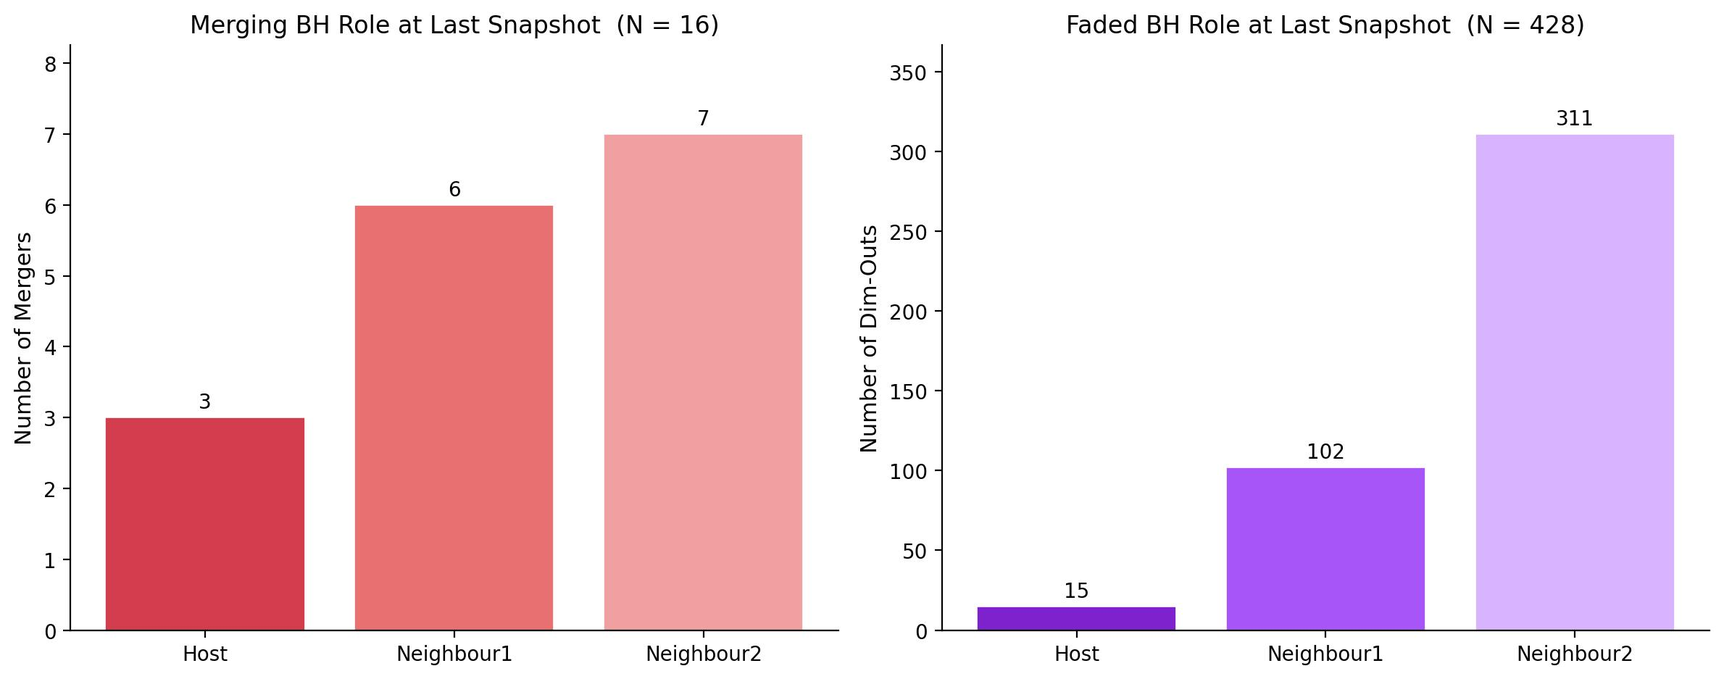
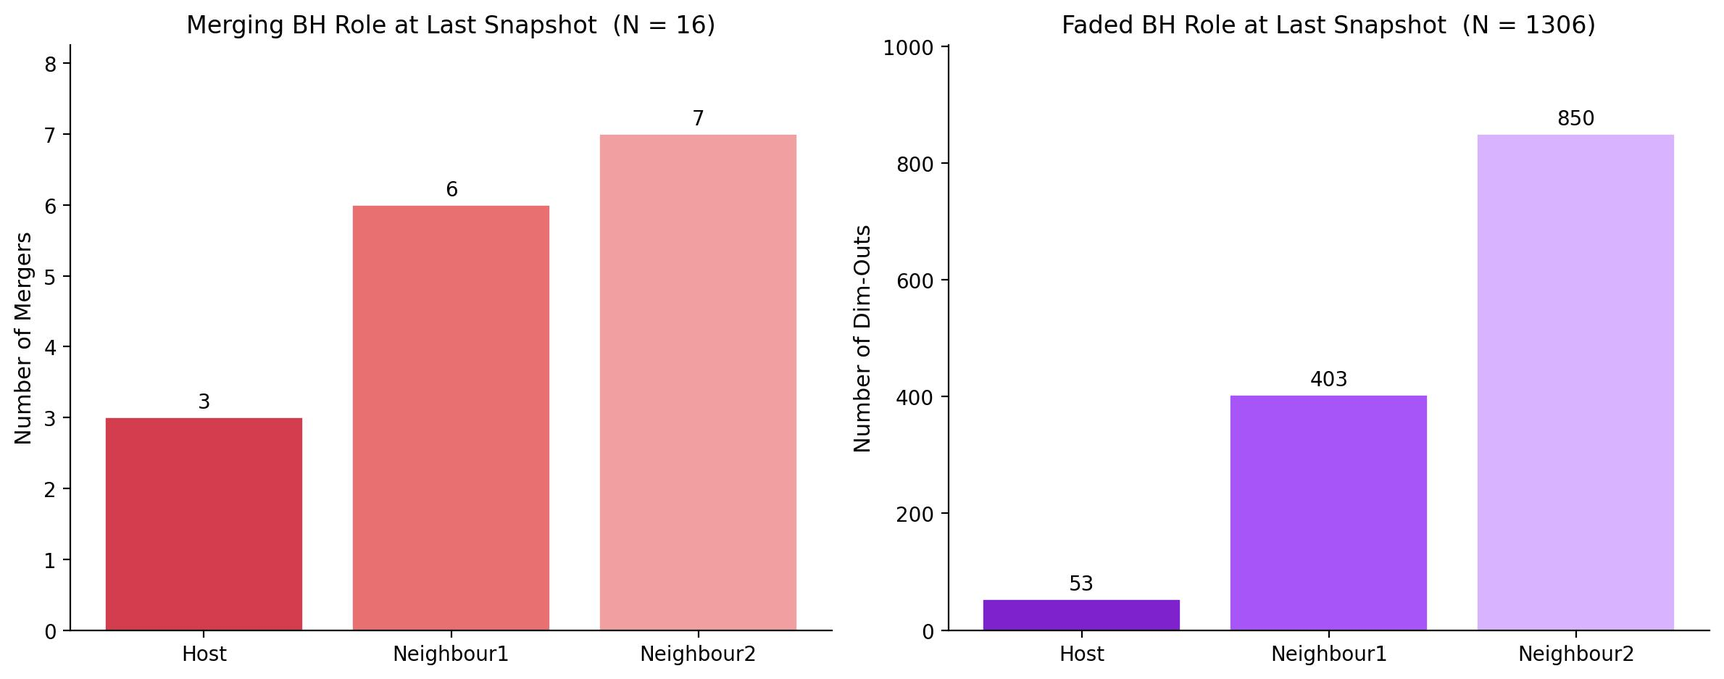
updates

diff --git a/main.tex b/main.tex
@@ -65,7 +65,7 @@ natbib=true
 \maketitle
 
 \begin{abstract}
-Hierarchical galaxy formation naturally predicts the existence of systems hosting multiple supermassive black holes (SMBHs), and when gas is available, such systems may manifest as multiple active galactic nuclei (AGN). While dual AGNs have been studied extensively in both observations and simulations, triple AGN systems remain relatively unexplored, despite their importance for further understanding things like SMBH dynamics and merger-driven accretion. Recent observational discoveries of nearby kpc-scale triple AGNs have highlighted the need for theoretical predictions that place these rare systems in a broader cosmological context. In this work, we investigate the properties of triple AGN systems in the Romulus25 cosmological hydrodynamical simulation. Romulus25 uniquely incorporates a physically motivated treatment of unresolved dynamical friction, enabling SMBHs to remain coupled to their host galaxies and to interact down to sub-kiloparsec scales. Building on previous analyses of dual AGNs in Romulus, we identify candidate triple AGN systems using AGN bolometric luminosity and spatial proximity criteria motivated by observations. We examine their redshift evolution, SMBH masses and luminosities, separations, host halos, lifetimes, and fates, test how the census depends on the luminosity threshold and search radius, and repeat the selection in projection with a cylinder of $30\,\mathrm{kpc}$ radius and $\pm 500\,\mathrm{km\,s^{-1}}$. Above $L_\mathrm{bol} = 10^{40}\,\mathrm{erg\,s^{-1}}$ we find 3,266 triple AGN system-snapshot instances from 1,397 unique systems between $z \approx 0.06$ and $z = 3$, with counts per snapshot rising by a factor of about three toward high redshift, driven mainly by the rising fraction of SMBHs that are accreting. Members typically lie $\sim 3\,\mathrm{kpc}$ apart, and the brightest member carries a median 88\% of the system luminosity. Most triple AGN episodes end because one member falls below the luminosity threshold while all three SMBHs remain together, and 21\% meet our Dim-Out criterion of a member that is still accreting above $10^{38}\,\mathrm{erg\,s^{-1}}$ while the other two remain a dual AGN; fewer than 1\% end in a confirmed SMBH merger and 3\% in the ejection of a member from the $30\,\mathrm{kpc}$ neighbourhood. In projection, 82\% of selected triples are genuine three-dimensional triples and 89\% of genuine triples are recovered. Narrowing the velocity window increases contamination, whereas reducing the aperture radius to $20\,\mathrm{kpc}$ improves both purity and completeness. Radiative transfer of five simulated analogues of the triple merger candidate UGC\,2369S shows that dust absorbs between 24\% and 90\% of their starlight. By providing a systematic census of triple AGNs in a cosmological simulation, this study aims to establish a theoretical baseline for interpreting current observations and to guide future searches for multi-AGN systems.
+Hierarchical galaxy formation naturally predicts the existence of systems hosting multiple supermassive black holes (SMBHs), and when gas is available, such systems may manifest as multiple active galactic nuclei (AGN). While dual AGNs have been studied extensively in both observations and simulations, triple AGN systems remain relatively unexplored, despite their importance for further understanding things like SMBH dynamics and merger-driven accretion. Recent observational discoveries of nearby kpc-scale triple AGNs have highlighted the need for theoretical predictions that place these rare systems in a broader cosmological context. In this work, we investigate the properties of triple AGN systems in the Romulus25 cosmological hydrodynamical simulation. Romulus25 uniquely incorporates a physically motivated treatment of unresolved dynamical friction, enabling SMBHs to remain coupled to their host galaxies and to interact down to sub-kiloparsec scales. Building on previous analyses of dual AGNs in Romulus, we identify candidate triple AGN systems using AGN bolometric luminosity and spatial proximity criteria motivated by observations. We examine their redshift evolution, SMBH masses and luminosities, separations, host halos, lifetimes, and fates, test how the census depends on the luminosity threshold and search radius, and repeat the selection in projection with a cylinder of $30\,\mathrm{kpc}$ radius and $\pm 500\,\mathrm{km\,s^{-1}}$. Above $L_\mathrm{bol} = 10^{40}\,\mathrm{erg\,s^{-1}}$ we find 3,266 triple AGN system-snapshot instances from 1,397 unique systems between $z \approx 0.06$ and $z = 3$, with counts per snapshot rising by a factor of about three toward high redshift, driven mainly by the rising fraction of SMBHs that are accreting. Members typically lie $\sim 3\,\mathrm{kpc}$ apart, and the brightest member carries a median 88\% of the system luminosity. Most triple AGN episodes (64\%) end in a Dim-Out, in which one member falls below the luminosity threshold but is still accreting above $10^{38}\,\mathrm{erg\,s^{-1}}$; fewer than 1\% end in a confirmed SMBH merger and 1\% in the ejection of a member from the $30\,\mathrm{kpc}$ neighbourhood. In projection, 82\% of selected triples are genuine three-dimensional triples and 89\% of genuine triples are recovered. Narrowing the velocity window increases contamination, whereas reducing the aperture radius to $20\,\mathrm{kpc}$ improves both purity and completeness. Radiative transfer of five simulated analogues of the triple merger candidate UGC\,2369S shows that dust absorbs between 24\% and 90\% of their starlight. By providing a systematic census of triple AGNs in a cosmological simulation, this study aims to establish a theoretical baseline for interpreting current observations and to guide future searches for multi-AGN systems.
 
 \end{abstract}
 \vspace{1em} 
@@ -142,7 +142,7 @@ In this paper, we present the first systematic census of triple AGN systems in t
 
 For each identified system we characterise the SMBH masses, bolometric luminosities, pairwise separations, host halo masses, and system lifetimes of all three members. We classify the Host (most massive), Neighbour~1 (N1), and Neighbour~2 (N2) by decreasing SMBH mass. We examine how these properties evolve with redshift and depend on the choice of luminosity threshold and separation cut.
 
-The key findings can be summarised as follows. Triple AGN systems are a natural and recurring product of hierarchical galaxy assembly in Romulus25, with their number density rising steadily from $z = 0$ to $z \approx 3$, mirroring the global rise in AGN activity. They are physically compact, with median pairwise separations of 2.9, 3.2, and 3.8\,kpc for the Host--N1, Host--N2, and N1--N2 pairs respectively, considerably more compact than the currently confirmed observational sample, implying a large population inaccessible to existing surveys. The SMBH mass distribution is asymmetric. The median Host is $\sim 3$ and $\sim 6$ times more massive than N1 and N2 respectively, a contrast that grows to one to two orders of magnitude in halos above $10^{12}\,M_\odot$, while N1 and N2 are drawn from a similar near-seed-mass population. This demonstrates that triple AGN formation does not require (and may in some cases \textit{precede}) significant growth of the secondary and tertiary SMBHs. The majority (61\%) of unique triple AGN systems are single-snapshot detections, reflecting the transient character of low-luminosity triple activity, while the multi-snapshot population has a median span of $1.44\,\mathrm{Gyr}$ from first to last detection and a long tail extending to $\sim 11\,\mathrm{Gyr}$, although these systems are typically detected as triples in only about a third of the snapshots they span. Most triple AGN episodes end when one member falls below the luminosity threshold while all three SMBHs remain within $30\,\mathrm{kpc}$, and a Dim-Out, in which a member falls below the threshold but is still accreting above $10^{38}\,\mathrm{erg\,s^{-1}}$ while the other two remain a dual AGN, ends 21\% of episodes, a confirmed merger fewer than 1\%, and the ejection of a member only 3\%. In most systems a single nucleus dominates the light, carrying a median 88\% of the total. Selection in projection recovers 89\% of genuine triples with a purity of 82\%, and a $20\,\mathrm{kpc}$ aperture improves on both.
+The key findings can be summarised as follows. Triple AGN systems are a natural and recurring product of hierarchical galaxy assembly in Romulus25, with their number density rising steadily from $z = 0$ to $z \approx 3$, mirroring the global rise in AGN activity. They are physically compact, with median pairwise separations of 2.9, 3.2, and 3.8\,kpc for the Host--N1, Host--N2, and N1--N2 pairs respectively, considerably more compact than the currently confirmed observational sample, implying a large population inaccessible to existing surveys. The SMBH mass distribution is asymmetric. The median Host is $\sim 3$ and $\sim 6$ times more massive than N1 and N2 respectively, a contrast that grows to one to two orders of magnitude in halos above $10^{12}\,M_\odot$, while N1 and N2 are drawn from a similar near-seed-mass population. This demonstrates that triple AGN formation does not require (and may in some cases \textit{precede}) significant growth of the secondary and tertiary SMBHs. The majority (61\%) of unique triple AGN systems are single-snapshot detections, reflecting the transient character of low-luminosity triple activity, while the multi-snapshot population has a median span of $1.44\,\mathrm{Gyr}$ from first to last detection and a long tail extending to $\sim 11\,\mathrm{Gyr}$, although these systems are typically detected as triples in only about a third of the snapshots they span. Most triple AGN episodes (64\%) end in a Dim-Out, in which a member falls below the luminosity threshold but is still accreting above $10^{38}\,\mathrm{erg\,s^{-1}}$, while a confirmed merger ends fewer than 1\% and the ejection of a member only 1\%. In most systems a single nucleus dominates the light, carrying a median 88\% of the total. Selection in projection recovers 89\% of genuine triples with a purity of 82\%, and a $20\,\mathrm{kpc}$ aperture improves on both.
 
 The paper is organized as follows. Section~\ref{sec:methods} describes the Romulus25 simulation, our AGN selection criteria, the triple AGN identification algorithm, and the methodology used to compare the simulated population with observations. Section~\ref{sec:results} presents all results, including the redshift evolution of the triple AGN population (Sections~\ref{subsec:agn_population}--\ref{subsec:frequency}), pairwise separation distributions (Sections~\ref{subsec:separations}--\ref{subsec:sep_halo}), SMBH mass and luminosity properties (Sections~\ref{subsec:bhmass_halo}--\ref{subsec:ratios}), system lifetimes (Section~\ref{subsec:lifetimes}), a case study of one of the longest-lived systems in the simulation (Section~\ref{subsec:case_study}), system fates (Section~\ref{subsec:fates}), the luminosity-independent parent population (Section~\ref{subsec:parent_population}), the dominance of the brightest member (Section~\ref{subsec:brightest_share}), the selection of triple AGN in projection (Sections~\ref{subsec:projected_vs_physical}--\ref{subsec:selection_opt}), and dust attenuation in simulated analogues of UGC\,2369S (Section~\ref{subsec:dust}). Throughout, we adopt the Romulus25 cosmology: $\Omega_m = 0.309$, $\Omega_\Lambda = 0.691$, $H_0 = 67.8\,\mathrm{km\,s^{-1}\,Mpc^{-1}}$. All separations are quoted in physical kiloparsecs and all masses in solar units $M_\odot$.
 
@@ -653,35 +653,35 @@ These gas column density maps represent individual frames from longer time-serie
 \begin{figure}[H]
     \centering
     \includegraphics[width=\columnwidth]{plot_1.jpeg}
-    \caption{Terminal fate classification of all 2,047 triple AGN episodes, counted per episode rather than per system, since 383 of the 1,397 systems re-form after a gap and contribute more than one episode. An episode is a contiguous run of snapshots over which the same three SMBHs satisfy the triple AGN selection criteria, with gaps of two snapshots or fewer bridged. Fates are assigned at the first usable snapshot after the episode, in the order Ongoing (the episode reaches the final catalogued snapshot), Merger (a member has vanished, having been within $0.7\,\mathrm{kpc}$ of another member), Dim-Out (two members remain a dual AGN while the third has dropped below the threshold but is still accreting, $10^{38} \leq L_\mathrm{bol} < 10^{40}\,\mathrm{erg\,s^{-1}}$), Passer-By (the same two SMBHs are a dual AGN immediately before and after the episode), Ejection (all three SMBHs still exist but a member has left the $30\,\mathrm{kpc}$ configuration), and Undefined (all remaining episodes). Undefined accounts for 72.5\% of episodes, Dim-Out for 20.9\%, Ejection for 2.7\%, Passer-By for 2.1\%, Ongoing for 0.9\%, and Merger for 0.8\%.}
+    \caption{Terminal fate classification of all 2,047 triple AGN episodes, counted per episode rather than per system, since 383 of the 1,397 systems re-form after a gap and contribute more than one episode. An episode is a contiguous run of snapshots over which the same three SMBHs satisfy the triple AGN selection criteria, with gaps of two snapshots or fewer bridged. Fates are assigned at the first usable snapshot after the episode, in the order Ongoing (the episode reaches the final catalogued snapshot), Merger (a member has vanished, having been within $0.7\,\mathrm{kpc}$ of another member), Dim-Out (a member has dropped below the threshold but is still accreting, $10^{38} \leq L_\mathrm{bol} < 10^{40}\,\mathrm{erg\,s^{-1}}$), Passer-By (the same two SMBHs are a dual AGN immediately before and after the episode), Ejection (all three SMBHs still exist but a member has left the $30\,\mathrm{kpc}$ configuration), and Undefined (all remaining episodes). Dim-Out accounts for 63.8\% of episodes, Undefined for 31.3\%, Passer-By for 2.1\%, Ejection for 1.0\%, Ongoing for 0.9\%, and Merger for 0.8\%.}
     \label{fig:fates}
 \end{figure}
 
 \begin{figure*}
     \centering
     \includegraphics[width=\textwidth]{plot_rs.jpeg}
-    \caption{Redshift evolution of triple AGN episode fates. \textit{Left:} Number of episodes in each of ten redshift bins spanning $z = 0$ to $z = 3$, stacked and coloured by terminal fate as classified in Section~\ref{subsec:fates}. \textit{Right:} The same data as the fraction of episodes in each bin. Undefined dominates at all redshifts (62--78\%), followed by Dim-Out (16--32\%). Neither, nor Ejection (1--4\%), Passer-By (0.5--6\%), or Merger (0--3\%), shows a clear redshift trend. The rise in the Ongoing fraction in the lowest-redshift bin is an artefact of the catalogue ending at $z \approx 0.06$.}
+    \caption{Redshift evolution of triple AGN episode fates. \textit{Left:} Number of episodes in each of ten redshift bins spanning $z = 0$ to $z = 3$, stacked and coloured by terminal fate as classified in Section~\ref{subsec:fates}. \textit{Right:} The same data as the fraction of episodes in each bin. Dim-Out dominates at all redshifts (57--70\%), followed by Undefined (23--40\%), which is somewhat more common at high redshift. Passer-By (0.5--6\%), Ejection (0--3\%), and Merger (0--3\%) show no clear redshift trend. The rise in the Ongoing fraction in the lowest-redshift bin is an artefact of the catalogue ending at $z \approx 0.06$.}
     \label{fig:fates_z}
 \end{figure*}
 
 The lifetime analysis presented in Section~\ref{subsec:lifetimes} characterised how long triple AGN systems persist, but did not address how they cease to satisfy the triple AGN criteria. To close this gap, we classify the fate of every triple AGN episode in the census, an episode being defined as a contiguous run of consecutive snapshots over which a given system satisfies the selection criteria of Section~\ref{subsec:identification}. Gaps of two or fewer consecutive snapshots between appearances of the same system are bridged into a single episode, so that a member briefly falling below the $10^{40}\,\mathrm{erg\,s^{-1}}$ threshold for one or two snapshots does not end the episode. Only gaps of three or more consecutive snapshots are treated as genuine dissolutions, generating a new, distinct episode upon the system's reappearance.
 
-The fates are counted per episode, not per system, so their total (2,047) exceeds the number of unique triple AGN systems identified in Section~\ref{subsec:lifetimes} (1,397). A system, that is, a given set of three SMBHs, can cease to satisfy the selection criteria for three or more consecutive snapshots and later satisfy them again, and each such return begins a new episode with its own terminal fate. Of the 1,397 systems, 1,014 (73\%) form a triple AGN in only a single episode, while the remaining 383 (27\%) re-form between one and seven times, after gaps of 3 to 53 snapshots (median 6), and contribute 1,033 episodes between them. These 650 re-entries account for the difference between the two totals. Because the SMBHs in a re-entering system must still exist and return to within $30\,\mathrm{kpc}$ of one another, the earlier episodes of such systems end almost exclusively in Undefined (431) or Dim-Out (206), with only 9 Passer-By and 4 Ejection episodes, and never in a Merger. Restricting the classification to the final episode of each system gives 1,054 Undefined, 222 Dim-Out, 51 Ejection, 35 Passer-By, 19 Ongoing, and 16 Merger fates among the 1,397 systems.
+The fates are counted per episode, not per system, so their total (2,047) exceeds the number of unique triple AGN systems identified in Section~\ref{subsec:lifetimes} (1,397). A system, that is, a given set of three SMBHs, can cease to satisfy the selection criteria for three or more consecutive snapshots and later satisfy them again, and each such return begins a new episode with its own terminal fate. Of the 1,397 systems, 1,014 (73\%) form a triple AGN in only a single episode, while the remaining 383 (27\%) re-form between one and seven times, after gaps of 3 to 53 snapshots (median 6), and contribute 1,033 episodes between them. These 650 re-entries account for the difference between the two totals. Because the SMBHs in a re-entering system must still exist and return to within $30\,\mathrm{kpc}$ of one another, the earlier episodes of such systems end almost exclusively in Dim-Out (459) or Undefined (179), with only 9 Passer-By and 3 Ejection episodes, and never in a Merger. Restricting the classification to the final episode of each system gives 847 Dim-Out, 462 Undefined, 35 Passer-By, 19 Ongoing, 18 Ejection, and 16 Merger fates among the 1,397 systems.
 
 For each episode we determine its terminal fate at the first usable snapshot following its final detection, applying the following classification in priority order. Luminosities are taken from an AGN catalogue with a floor of $10^{38}\,\mathrm{erg\,s^{-1}}$, or computed from the accretion rate in the \textsc{Tangos} database with the same floor where that catalogue is unavailable. Three-dimensional separations are taken from the projected master catalogues of Section~\ref{subsec:projected_selection}, pooled over the three viewing axes.
 \begin{enumerate}
     \item \textbf{Ongoing:} the episode is still active at the final catalogued snapshot, so that its fate lies beyond the redshift range probed by this study.
     \item \textbf{Merger:} one of the three SMBHs is absent from the black hole catalogue at the following snapshot, and at the final snapshot of the episode it lay within $0.7\,\mathrm{kpc}$ of another member, the separation below which Romulus25 merges SMBHs (Section~\ref{subsubsec:dynamics}). In Romulus25 a merged SMBH disappears permanently, and none of the vanished SMBHs reappears in any later snapshot.
-    \item \textbf{Dim-Out:} a member drops below the detection threshold while the other two remain an active pair. Two conditions must both hold at the following snapshot. First, two of the three SMBHs form a dual AGN in the dual catalogue of Section~\ref{subsec:derived}, that is, they are linked within $30\,\mathrm{kpc}$ with no further AGN attached. Second, the third SMBH is below the triple threshold but still accreting, with $10^{38} \leq L_\mathrm{bol} < 10^{40}\,\mathrm{erg\,s^{-1}}$, so that it remains in the AGN catalogue with a floor of $10^{38}\,\mathrm{erg\,s^{-1}}$.
+    \item \textbf{Dim-Out:} a member has dropped below the detection threshold but is still accreting, with $10^{38} \leq L_\mathrm{bol} < 10^{40}\,\mathrm{erg\,s^{-1}}$ at the following snapshot, so that it remains in the AGN catalogue with a floor of $10^{38}\,\mathrm{erg\,s^{-1}}$. No condition is placed on the other two members: they need not remain a dual AGN, since the member that dimmed may have been the one linking them within $30\,\mathrm{kpc}$.
     \item \textbf{Passer-By:} the same two SMBHs were an active dual AGN in the snapshot immediately preceding the episode and remain an active dual in the snapshot immediately following it, so that the dual outlasted the triple.
     \item \textbf{Ejection:} all three SMBHs still exist at the following snapshot, but a member has left the system: no member lies within $30\,\mathrm{kpc}$ of both others, so the configuration required by the triple selection is broken.
     \item \textbf{Undefined:} all remaining episodes.
 \end{enumerate}
 A residual Unknown category is reserved for cases in which the black hole catalogue for the following snapshot is unavailable; no episodes in our census fell into this category.
 
-Figure~\ref{fig:fates} shows the resulting distribution of terminal fates. Undefined is the most common, ending 1,485 of the 2,047 episodes (72.5\%), followed by Dim-Out, with 428 (20.9\%), occurring at least once in 331 of the 1,397 unique systems (24\%). Ejection and Passer-By account for 55 (2.7\%) and 44 (2.1\%) episodes, and the rarest fates are Ongoing, with 19 (0.9\%), and Merger, with 16 (0.8\%). In 51 of the 55 Ejections, two members remain within $30\,\mathrm{kpc}$ of each other while the third has left, and in the remaining 4 all three members have separated. In Dim-Out episodes the dimmed member has a median luminosity of $1.8 \times 10^{39}\,\mathrm{erg\,s^{-1}}$ at the following snapshot, roughly a factor of five below the threshold, and it is almost always one of the companions (Figure~\ref{fig:merger_roles}): Neighbour~2 in 311 episodes (73\%), Neighbour~1 in 102 (24\%), and the Host in only 15 (4\%).
+Figure~\ref{fig:fates} shows the resulting distribution of terminal fates. Dim-Out is by far the most common, ending 1,306 of the 2,047 episodes (63.8\%) and occurring at least once in 954 of the 1,397 unique systems (68\%). It is followed by Undefined, with 641 episodes (31.3\%). Passer-By and Ejection account for 44 (2.1\%) and 21 (1.0\%) episodes, and the rarest fates are Ongoing, with 19 (0.9\%), and Merger, with 16 (0.8\%). In Dim-Out episodes the dimmed member has a median luminosity of $1.3 \times 10^{39}\,\mathrm{erg\,s^{-1}}$ at the following snapshot, roughly an order of magnitude below the threshold, and in 892 of them it is the only member below the threshold. It is usually one of the companions (Figure~\ref{fig:merger_roles}): Neighbour~2 in 850 episodes (65\%), Neighbour~1 in 403 (31\%), and the Host in 53 (4\%). Because the Dim-Out test precedes the Ejection test, 36 Dim-Out episodes in which the members also no longer satisfy the $30\,\mathrm{kpc}$ geometry are counted as Dim-Out; in 8 of these the dimmed member is also the one that has moved away, in 26 a different member has, and in 2 all three have separated. Of the 21 Ejections, 19 leave two members within $30\,\mathrm{kpc}$ of each other while the third has left, and in 2 all three members have separated.
 
-Table~\ref{tab:end_states} divides the Undefined class according to the state of the three SMBHs at the following snapshot. In 985 of the 1,485 Undefined episodes (66\%), the three SMBHs are still together but at least one member has fallen below the threshold without meeting the Dim-Out criteria. In 261 of these, the member has dropped below $10^{38}\,\mathrm{erg\,s^{-1}}$; in the other 724, the remaining two members do not form a dual AGN on their own, because a further AGN is attached to them (440 episodes) or because a second member has also fallen below the threshold (284). In a further 384 episodes (26\%), all three members remain above the threshold and in the same configuration, but an additional AGN lies within $30\,\mathrm{kpc}$ of at least one member, so that the system no longer has exactly two AGN neighbours. In 110 episodes (7\%), one member has vanished from the black hole catalogue, but it lay more than $0.7\,\mathrm{kpc}$ from the other members at the final snapshot of the episode. These SMBHs have merged with some black hole between snapshots, but the merger with another member of the triple cannot be confirmed. At the final snapshot they lie a median of $1.4\,\mathrm{kpc}$ from the nearest member, with 76\% within $2\,\mathrm{kpc}$, so many are likely to have merged with a member of the triple within the $\sim 143\,\mathrm{Myr}$ before the following snapshot. The six remaining episodes cannot be measured. Over all episodes, a member falls below the threshold while the SMBHs remain together in 1,444 cases (70.5\%), of which 426 are Dim-Outs, 985 Undefined, and 33 Passer-By episodes, whereas the departure of a member accounts for only 65 (3.2\%), the 55 Ejections, 8 Passer-By episodes, and 2 Dim-Outs in which the dimmed member had also moved beyond $30\,\mathrm{kpc}$. The state is measured only at the following snapshot, a median of 143\,Myr later, so excursions between snapshots are not captured.
+Table~\ref{tab:end_states} divides the Undefined class according to the state of the three SMBHs at the following snapshot. In 384 of the 641 Undefined episodes (60\%), all three members remain above the threshold and in the same configuration, but an additional AGN lies within $30\,\mathrm{kpc}$ of at least one member, so that the system no longer has exactly two AGN neighbours. In 141 episodes (22\%), the three SMBHs are still together but the member that fell below the threshold has dropped below $10^{38}\,\mathrm{erg\,s^{-1}}$, out of the AGN catalogue, so that the episode does not meet the Dim-Out criteria. In 110 episodes (17\%), one member has vanished from the black hole catalogue, but it lay more than $0.7\,\mathrm{kpc}$ from the other members at the final snapshot of the episode. These SMBHs have merged with some black hole between snapshots, but the merger with another member of the triple cannot be confirmed. At the final snapshot they lie a median of $1.4\,\mathrm{kpc}$ from the nearest member, with 76\% within $2\,\mathrm{kpc}$, so many are likely to have merged with a member of the triple within the $\sim 143\,\mathrm{Myr}$ before the following snapshot. The six remaining episodes cannot be measured. Over all episodes, a member falls below the threshold while the SMBHs remain together in 1,444 cases (70.5\%), of which 1,270 are Dim-Outs, 141 Undefined, and 33 Passer-By episodes, whereas the departure of a member accounts for only 65 (3.2\%), the 21 Ejections, 36 Dim-Outs, and 8 Passer-By episodes. The state is measured only at the following snapshot, a median of 143\,Myr later, so excursions between snapshots are not captured.
 
 \begin{table}
     \centering
@@ -691,14 +691,14 @@ Table~\ref{tab:end_states} divides the Undefined class according to the state of
         \hline
         Fate & $N$ & \% \\
         \hline
-        Undefined & 1,485 & 72.5 \\
-        \quad member below threshold, not Dim-Out & 985 & 48.1 \\
+        Dim-Out & 1,306 & 63.8 \\
+        Undefined & 641 & 31.3 \\
         \quad further AGN within $30\,\mathrm{kpc}$ & 384 & 18.8 \\
+        \quad member below $10^{38}\,\mathrm{erg\,s^{-1}}$ & 141 & 6.9 \\
         \quad member vanished beyond $0.7\,\mathrm{kpc}$ & 110 & 5.4 \\
         \quad not measurable & 6 & 0.3 \\
-        Dim-Out & 428 & 20.9 \\
-        Ejection & 55 & 2.7 \\
         Passer-By & 44 & 2.1 \\
+        Ejection & 21 & 1.0 \\
         Ongoing & 19 & 0.9 \\
         Merger & 16 & 0.8 \\
         \hline
@@ -707,12 +707,12 @@ Table~\ref{tab:end_states} divides the Undefined class according to the state of
 
 Confirmed SMBH--SMBH mergers end only 0.8\% of episodes, and even counting all 113 SMBHs that vanished while lying further from the other members (110 Undefined and 3 Passer-By episodes), mergers would end 6.3\% of episodes. These fractions are not directly comparable to the $\sim 70\%$ of SMBH pairs in dual systems found to eventually merge by \citet{Saeedzadeh2024}. Our figures count mergers at the snapshot immediately following an episode at a threshold of $10^{40}\,\mathrm{erg\,s^{-1}}$, whereas theirs follows pairs at $10^{43}\,\mathrm{erg\,s^{-1}}$ through to coalescence. Since most episodes end with all three SMBHs still in close proximity, the low merger fraction indicates that episodes usually end before any coalescence, and following the SMBHs beyond the end of each episode would be required to determine how many eventually merge. We also note that Romulus25 merges SMBHs at separations of $0.7\,\mathrm{kpc}$, so these simulations cannot address the three-body hardening of bound binaries at parsec scales discussed in Section~\ref{subsec:triple_theory}. Among the 16 Merger episodes, the SMBH that disappears is the Host in 3, Neighbour~1 in 6, and Neighbour~2 in 7 (Figure~\ref{fig:merger_roles}, left), too few to establish which member is preferentially absorbed.
 
-Figure~\ref{fig:fates_z} examines whether the terminal fate of a triple AGN episode depends on redshift. The left panel shows the number of episodes of each fate in ten redshift bins spanning $z = 0$ to $z = 3$, while the right panel shows the same information as the fraction of episodes within each bin. Undefined is the dominant fate at every redshift, accounting for 62--78\% of episodes, followed by Dim-Out at 16--32\%. The Ejection fraction lies between 1\% and 4\%, the Passer-By fraction between 0.5\% and 6\%, and the Merger fraction below 3\% in every bin, none with a clear redshift trend. The Ongoing fraction is negligible across most of the redshift range but reaches 9\% in the lowest-redshift bin. This is an artefact of the catalogue ending at $z \approx 0.06$: episodes in this bin have the least opportunity to be followed to a terminal fate, and their prevalence should not be interpreted as evidence that low-redshift triple AGN are intrinsically more stable.
+Figure~\ref{fig:fates_z} examines whether the terminal fate of a triple AGN episode depends on redshift. The left panel shows the number of episodes of each fate in ten redshift bins spanning $z = 0$ to $z = 3$, while the right panel shows the same information as the fraction of episodes within each bin. Dim-Out is the dominant fate at every redshift, accounting for 57--70\% of episodes, followed by Undefined at 23--40\%. The Undefined fraction is somewhat higher at $z > 2$, consistent with further AGN more often joining a system at the higher AGN number densities of early times (Section~\ref{subsec:agn_population}). The Passer-By fraction lies between 0.5\% and 6\%, and the Ejection and Merger fractions below 3\% in every bin, none with a clear redshift trend. The Ongoing fraction is negligible across most of the redshift range but reaches 9\% in the lowest-redshift bin. This is an artefact of the catalogue ending at $z \approx 0.06$: episodes in this bin have the least opportunity to be followed to a terminal fate, and their prevalence should not be interpreted as evidence that low-redshift triple AGN are intrinsically more stable.
 
 \begin{figure*}
     \centering
     \includegraphics[width=0.85\textwidth]{plot12.jpeg}
-    \caption{Membership role of the SMBH responsible for ending the episode. \textit{Left:} The SMBH that disappears in each Merger episode ($N = 16$): Host (3), Neighbour~1 (6), and Neighbour~2 (7). \textit{Right:} The member that dims out in each Dim-Out episode ($N = 428$): Host (15), Neighbour~1 (102), and Neighbour~2 (311). Roles are those at the final snapshot of the episode.}
+    \caption{Membership role of the SMBH responsible for ending the episode. \textit{Left:} The SMBH that disappears in each Merger episode ($N = 16$): Host (3), Neighbour~1 (6), and Neighbour~2 (7). \textit{Right:} The member that dims out in each Dim-Out episode ($N = 1{,}306$), taken as the faintest member below the threshold: Host (53), Neighbour~1 (403), and Neighbour~2 (850). Roles are those at the final snapshot of the episode.}
     \label{fig:merger_roles}
 \end{figure*}
 
@@ -1043,11 +1043,10 @@ out of the triple AGN classification.
 
 Of the 2,047 triple AGN episodes in the census, 71\% end with at least
 one member below the luminosity threshold while the three SMBHs remain
-together, and 19\% end when a further AGN joins the system. In 21\%
+together, and 19\% end when a further AGN joins the system. In 64\%
 the episode is a Dim-Out, in which a member falls below the threshold
-but is still accreting above $10^{38}\,\mathrm{erg\,s^{-1}}$ while the
-other two remain a dual AGN. Fewer than 1\%
-end in a confirmed SMBH merger, and only 3\% with a member ejected
+but is still accreting above $10^{38}\,\mathrm{erg\,s^{-1}}$. Fewer than
+1\% end in a confirmed SMBH merger, and only 1\% with a member ejected
 from the $30\,\mathrm{kpc}$ neighbourhood. The end of a triple AGN episode
 therefore usually reflects a change in the accretion state of its
 members rather than a dynamical event.
